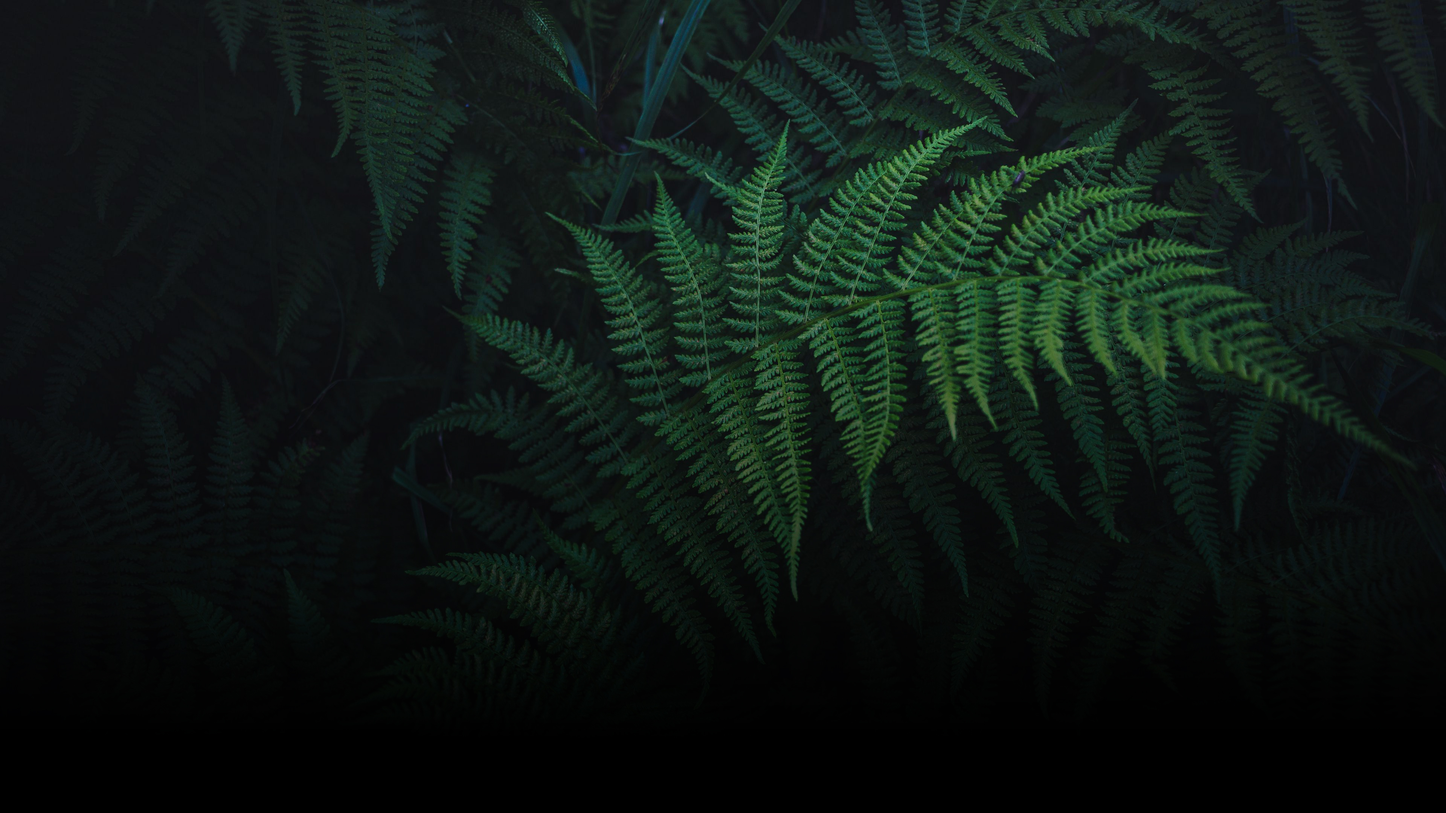
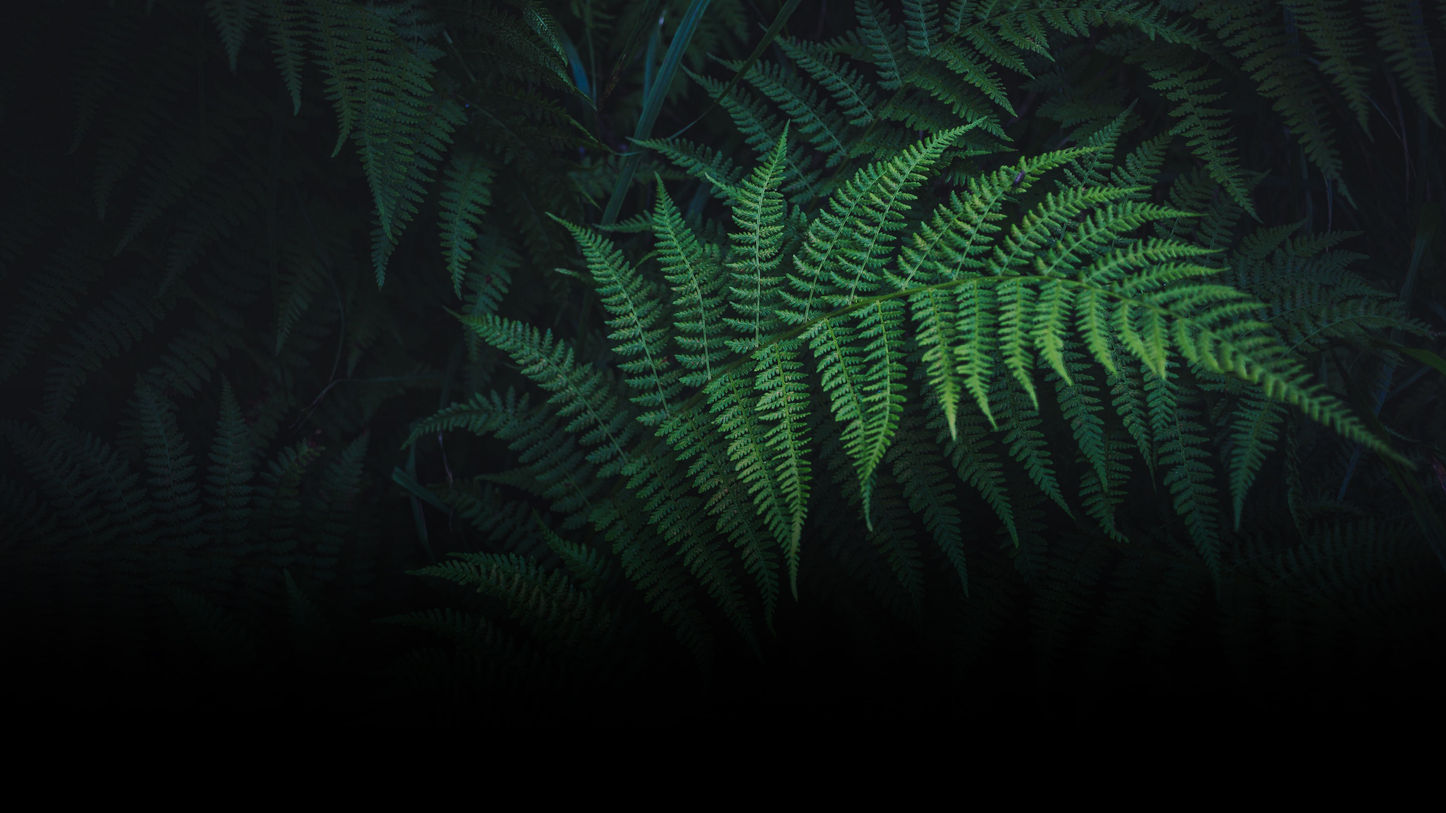
v0.04009b
1) Более читаемая разметка
2) Новая фотография фона
3) Теперь не нужно в каждом элементе прописывать прозрачный b-c, фитча удалена

Changed region(s): [[0.4062, 0.3412, 0.9062, 0.6204], [0.3438, 0.4343, 0.4062, 0.4963], [0.9062, 0.4963, 0.9375, 0.5273]]

diff --git a/style.css b/style.css
@@ -1,39 +1,39 @@
-*{
+* {
     margin: 0;
+    outline: none;
+}
+
+body{
     background-color: black;
 }
 
-a{
+a {
     text-decoration: none;
     color: #fff;
 }
 
-.header{
+.header {
     position: fixed;
     width: 100%;
-    background-color: rgba(255, 255, 255, 0);
 }
 
-.header__menu{
+.header__menu {
     display: flex;
     justify-content: space-around;
     gap: 30px;
     align-items: center;
     height: 10vh;
-    background-color: rgba(255, 255, 255, 0);
 }
 
-.header__nav{
+.header__nav {
     display: flex;
-    background-color: rgba(255, 255, 255, 0);
 }
 
-.header__nav>a{
+.header__nav>a {
     margin-left: 10px;
-    background-color: rgba(255, 255, 255, 0);
 }
 
-.header__button{
+.header__button {
     width: 18em;
     height: 3em;
     border: 0;
@@ -43,20 +43,14 @@ a{
     background-color: #fff;
 }
 
-.header__button>p{
-    background-color: rgba(255, 255, 255, 0);
-}
-
-
-.main{
+.main {
     width: 100%;
-    height: 120vh;
+    height: 110vh;
     background-image: url(/img/backgroung_image.jpg);
     background-size: cover;
 }
 
-.main__nav{
+.main__nav {
     width: 100%;
     height: 100vh;
-    background-color: black;
 }

diff --git a/index.html b/index.html
@@ -1,5 +1,6 @@
 <!DOCTYPE html>
 <html lang="ru">
+
 <head>
     <meta charset="UTF-8">
     <meta http-equiv="X-UA-Compatible" content="IE=edge">
@@ -7,6 +8,7 @@
     <title>NaN</title>
     <link rel="stylesheet" href="style.css">
 </head>
+
 <body>
     <header class="header">
         <div class="header__menu">
@@ -35,4 +37,5 @@
         </nav>
     </main>
 </body>
+
 </html>
